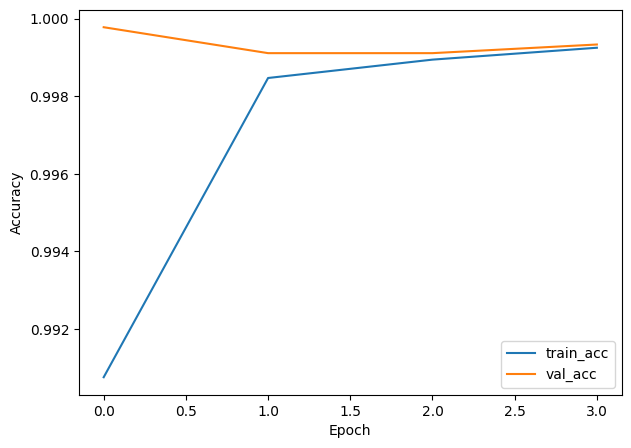
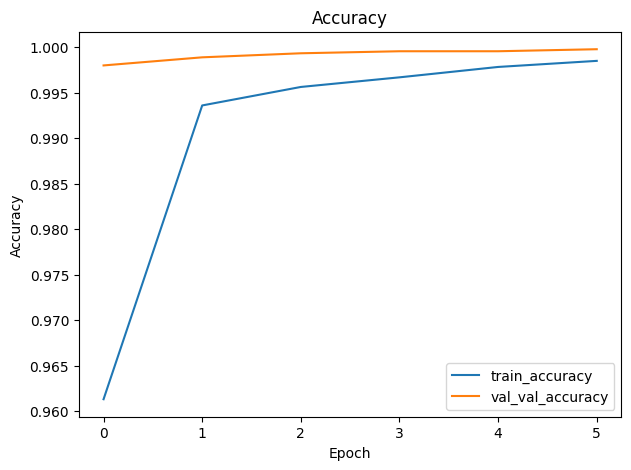
Feat: fix ui

diff --git a/train/train_v2.py b/train/train_v2.py
@@ -1,23 +1,22 @@
-
+#!/usr/bin/env python3
+# train_v2.py — improved from file1 & file2
 import os
 import sys
 import pickle
 import numpy as np
 import pandas as pd
 import matplotlib.pyplot as plt
+import random
 import tensorflow as tf
 
 from sklearn.model_selection import train_test_split
 from tensorflow.keras.preprocessing.sequence import pad_sequences
 from tensorflow.keras.callbacks import (
-    EarlyStopping,
-    ModelCheckpoint,
-    ReduceLROnPlateau,
-    CSVLogger
+    EarlyStopping, ModelCheckpoint, ReduceLROnPlateau, CSVLogger
 )
 
-# --- Paths & config ---
-PROJECT_ROOT = os.path.abspath(os.path.join(os.path.dirname(__file__), '..'))
+# -------------------- Config --------------------
+PROJECT_ROOT = os.path.abspath(os.path.join(os.path.dirname(__file__), ".."))
 DATA_CSV = os.path.join(PROJECT_ROOT, "data/processed/cleaned_dataset.csv")
 TOKENIZER_PKL = os.path.join(PROJECT_ROOT, "data/processed/tokenizer.pkl")
 EMB_NPY = os.path.join(PROJECT_ROOT, "data/processed/embedding_matrix.npy")
@@ -30,72 +29,101 @@ CSV_LOG_PATH = os.path.join(OUT_DIR, "training_log_v2.csv")
 LOSS_PLOT = os.path.join(OUT_DIR, "training_loss_v2.png")
 ACC_PLOT = os.path.join(OUT_DIR, "training_accuracy_v2.png")
 
-# giảm epo cũng được
-BATCH_SIZE = 32
-EPOCHS = 15
+BATCH_SIZE = 64        # align với file1
+EPOCHS = 8             # file1 dùng 8, giữ cho nhất quán
 RANDOM_STATE = 42
+MAX_LEN_CAP = 500      # bảo vệ trường hợp outlier
+# ------------------------------------------------
 
+# reproducibility
+tf.random.set_seed(RANDOM_STATE)
+np.random.seed(RANDOM_STATE)
+random.seed(RANDOM_STATE)
+os.environ["PYTHONHASHSEED"] = str(RANDOM_STATE)
 
+# add project to path for models import
+if PROJECT_ROOT not in sys.path:
+    sys.path.insert(0, PROJECT_ROOT)
+
+# --- Import model (try a few safe options) ---
 try:
-    if PROJECT_ROOT not in sys.path:
-        sys.path.insert(0, PROJECT_ROOT)
+    # Prefer a pre-built `model` variable exported by models/model.py
     from models.model import model
-    print("Model loaded successfully from models/model.py")
+    print("✅ Loaded `model` from models/model.py")
 except Exception as e:
-    print("ERROR importing model:", e)
-    sys.exit(1)
+    print("⚠ Could not import `model` directly (models/model.py). Error:", e)
+    print("Please ensure models/model.py exposes a compiled `model` object.")
+    raise
 
-print("\nLoading data...")
-df = pd.read_csv(DATA_CSV).dropna(subset=["clean_join","label"]).reset_index(drop=True)
+# --- Load data & tokenizer ---
+print("\n🔹 Loading data & tokenizer...")
+df = pd.read_csv(DATA_CSV).dropna(subset=["clean_join", "label"]).reset_index(drop=True)
 
 with open(TOKENIZER_PKL, "rb") as f:
     tokenizer = pickle.load(f)
 
 if os.path.exists(EMB_NPY):
-    embedding_matrix = np.load(EMB_NPY)
+    embedding_matrix = np.load(EMB_NPY).astype("float32")
+    print("Embedding matrix shape:", embedding_matrix.shape)
+else:
+    embedding_matrix = None
+    print("No embedding matrix found at", EMB_NPY)
 
-seqs = tokenizer.texts_to_sequences(df["clean_join"].tolist())
-lengths = [len(s) for s in seqs]
-p95 = int(np.percentile(lengths, 95))
-max_len = min(p95, 500)
-X_all = pad_sequences(seqs, maxlen=max_len, padding="post", truncating="post")
-
+# Normalize labels & filter valid ones
 labels_raw = df["label"].astype(str).str.strip().str.lower()
-map_dict = {"fake":0,"false":0,"0":0, "real":1,"true":1,"1":1}
-mask = labels_raw.isin(map_dict)
-X_all = X_all[mask.values]
-y_all = labels_raw[mask].map(map_dict).astype("int32").values
+map_dict = {"fake": 0, "false": 0, "0": 0, "real": 1, "true": 1, "1": 1}
+mask_valid = labels_raw.isin(map_dict.keys())
 
-X_train, X_tmp, y_train, y_tmp = train_test_split(X_all,y_all,test_size=0.2,random_state=RANDOM_STATE,stratify=y_all)
-X_val, X_test, y_val, y_test = train_test_split(X_tmp,y_tmp,test_size=0.5,random_state=RANDOM_STATE,stratify=y_tmp)
+if not mask_valid.all():
+    print(f"⚠ Dropping { (~mask_valid).sum() } rows due to invalid labels: ",
+          sorted(set(labels_raw[~mask_valid])))
 
+df_valid = df[mask_valid].reset_index(drop=True)
+y_all = labels_raw[mask_valid].map(map_dict).astype("int32").values
+
+# Tokenize -> sequences
+seqs = tokenizer.texts_to_sequences(df_valid["clean_join"].tolist())
+lengths = [len(s) for s in seqs]
+p95 = int(np.percentile(lengths, 95)) if len(lengths) > 0 else 100
+max_len = min(p95, MAX_LEN_CAP)
+print(f"Computed max_len (95th percentile capped): {max_len}")
+
+X_all = pad_sequences(seqs, maxlen=max_len, padding="post", truncating="post")
+print("X_all shape:", X_all.shape, "y_all shape:", y_all.shape)
+
+# Train/val/test split (80/10/10) with stratify
+X_train, X_tmp, y_train, y_tmp = train_test_split(
+    X_all, y_all, test_size=0.2, random_state=RANDOM_STATE, stratify=y_all
+)
+X_val, X_test, y_val, y_test = train_test_split(
+    X_tmp, y_tmp, test_size=0.5, random_state=RANDOM_STATE, stratify=y_tmp
+)
+
+print(f"Dataset sizes -> train: {len(X_train)}, val: {len(X_val)}, test: {len(X_test)}")
+
+# --- Decide monitor metric: prefer val_auc if model reports AUC, else val_loss ---
+model_metric_names = getattr(model, "metrics_names", []) or []
+model_metric_names = [str(m).lower() for m in model_metric_names]
+if any("auc" in n for n in model_metric_names):
+    monitor = "val_auc"
+    mode = "max"
+    print("Using monitor metric:", monitor)
+else:
+    # fallback to val_loss to be robust
+    monitor = "val_loss"
+    mode = "min"
+    print("AUC not present in model.metrics_names -> fallback to monitor:", monitor)
+
+# --- Callbacks (aligned with file1 best practices) ---
 callbacks = [
-    EarlyStopping(
-        monitor="val_loss",
-        mode="min",
-        patience=2,
-        restore_best_weights=True,
-        verbose=1
-    ),
-    ModelCheckpoint(
-        BEST_MODEL_PATH,
-        monitor="val_loss",
-        mode="min",
-        save_best_only=True,
-        verbose=1
-    ),
-    ReduceLROnPlateau(
-        monitor="val_loss",
-        factor=0.5,
-        patience=1,
-        min_lr=1e-6,
-        verbose=1
-    ),
+    EarlyStopping(monitor=monitor, mode=mode, patience=2, restore_best_weights=True, verbose=1),
+    ModelCheckpoint(BEST_MODEL_PATH, monitor=monitor, mode=mode, save_best_only=True, verbose=1),
+    ReduceLROnPlateau(monitor="val_loss", factor=0.5, patience=1, min_lr=1e-6, verbose=1),
     CSVLogger(CSV_LOG_PATH, append=False)
 ]
 
-# training
-print("\nStart training...")
+# --- Training ---
+print("\n🚀 Start training...")
 history = model.fit(
     X_train, y_train,
     validation_data=(X_val, y_val),
@@ -105,26 +133,37 @@ history = model.fit(
     verbose=1
 )
 
-print("\nEvaluate...")
+# --- Evaluate ---
+print("\n🧩 Evaluate on test set...")
 test_results = model.evaluate(X_test, y_test, batch_size=BATCH_SIZE, verbose=1)
-for name,val in zip(model.metrics_names,test_results):
+for name, val in zip(model.metrics_names, test_results):
     print(f"- {name}: {val:.4f}")
 
-# plot loss
-plt.figure(figsize=(7,5))
-plt.plot(history.history["loss"],label="train_loss")
-plt.plot(history.history["val_loss"],label="val_loss")
-plt.legend(); plt.xlabel("Epoch"); plt.ylabel("Loss")
-plt.savefig(LOSS_PLOT,bbox_inches="tight"); plt.show(); plt.close()
+# --- Plot helper (robust to missing keys) ---
+def plot_metric(history, metric_key, val_key, title, save_path):
+    plt.figure(figsize=(7, 5))
+    if metric_key in history.history:
+        plt.plot(history.history[metric_key], label=f"train_{metric_key}")
+    if val_key in history.history:
+        plt.plot(history.history[val_key], label=f"val_{val_key}")
+    plt.legend()
+    plt.xlabel("Epoch")
+    plt.ylabel(title)
+    plt.title(title)
+    plt.savefig(save_path, bbox_inches="tight")
+    plt.close()
 
-# plot accuracy
+# Loss
+plot_metric(history, "loss", "val_loss", "Loss", LOSS_PLOT)
+
+# Accuracy (handle acc/accuracy)
 acc_key = "accuracy" if "accuracy" in history.history else ("acc" if "acc" in history.history else None)
 val_acc_key = "val_accuracy" if "val_accuracy" in history.history else ("val_acc" if "val_acc" in history.history else None)
 if acc_key:
-    plt.figure(figsize=(7,5))
-    plt.plot(history.history[acc_key],label="train_acc")
-    if val_acc_key: plt.plot(history.history[val_acc_key],label="val_acc")
-    plt.legend(); plt.xlabel("Epoch"); plt.ylabel("Accuracy")
-    plt.savefig(ACC_PLOT,bbox_inches="tight"); plt.show(); plt.close()
+    plot_metric(history, acc_key, val_acc_key, "Accuracy", ACC_PLOT)
+else:
+    print("No accuracy key in history.history - skipping accuracy plot.")
 
-print("\nDONE. Best model saved at:", BEST_MODEL_PATH)
+print(f"\n✅ DONE. Best model saved at: {BEST_MODEL_PATH}")
+print(f"📈 Training log saved at: {CSV_LOG_PATH}")
+print(f"🖼 Plots saved at: {LOSS_PLOT} / {ACC_PLOT if acc_key else '(no acc plot)'}")

diff --git a/models/model.py b/models/model.py
@@ -1,4 +1,3 @@
-# File: models/model.py
 import numpy as np
 import pandas as pd
 import pickle
@@ -7,25 +6,24 @@ import os
 
 from sklearn.preprocessing import LabelEncoder
 
-# === CẬP NHẬT IMPORT ===
-from tensorflow.keras.models import Model
-# Thêm Conv1D, GlobalMaxPooling1D, Concatenate
-from tensorflow.keras.layers import Input, Embedding, Dense, Dropout, Conv1D, GlobalMaxPooling1D, Concatenate
-from tensorflow.keras.preprocessing.sequence import pad_sequences
-# (Không cần Bidirectional, LSTM nữa)
-# === HẾT CẬP NHẬT IMPORT ===
 
-# --- Configuration of file ---
+from tensorflow.keras.models import Model
+from tensorflow.keras.layers import Input, Embedding, Bidirectional, LSTM, Dense, Dropout
+from tensorflow.keras.preprocessing.sequence import pad_sequences
+from tensorflow.keras.callbacks import ModelCheckpoint, EarlyStopping
+
+# Configuration of file
 model_dir = os.path.dirname(__file__)
+# Lấy đường dẫn thư mục gốc của dự án (đi lên 1 cấp từ model_dir)
 project_root = os.path.abspath(os.path.join(model_dir, '..'))
 
+# Tạo đường dẫn tuyệt đối đến các file dữ liệu
 OUTPUT_CLEAN_CSV = os.path.join(project_root, "data/processed/cleaned_dataset.csv")
 OUTPUT_TOKENIZER = os.path.join(project_root, "data/processed/tokenizer.pkl")
 OUTPUT_EMB_MATRIX = os.path.join(project_root, "data/processed/embedding_matrix.npy")
-# --- Hết phần đường dẫn ---
+OUTPUT_MODEL_H5 = "best_model.h5"
+# Upload clean data
 
-# --- Tải dữ liệu (giữ nguyên) ---
-print("Loading data inside model.py...")
 df = pd.read_csv(OUTPUT_CLEAN_CSV)
 df = df.dropna(subset=['clean_join','label']).reset_index(drop=True)
 
@@ -39,18 +37,13 @@ print(f"Shape of Embedding matrix: {embedding_matrix.shape}")
 vocal_size = embedding_matrix.shape[0]
 embed_dim = embedding_matrix.shape[1]
 seqs = tokenizer.texts_to_sequences(df['clean_join'])
-# max_len = max(len(s) for s in seqs) # (Bị ghi đè bên dưới)
+max_len = max(len(s) for s in seqs)
 
 # Define the suitable length string
 p95 = int(np.percentile([len(s) for s in seqs], 95))
 max_len = min(p95, 500)
-# --- Hết phần tải dữ liệu ---
 
-
-# === THAY THẾ KIẾN TRÚC MÔ HÌNH ===
-print("Building TextCNN model...")
-
-# Build-in model TextCNN
+# Buil-in model BI-LSTM
 inputs = Input(shape=(max_len,),dtype='int32',name="Input_Layer")
 
 # Embedding layer using GloVe
@@ -59,27 +52,27 @@ embedding_layer = Embedding(
     output_dim=embed_dim,
     weights=[embedding_matrix],
     input_length=max_len,
-    trainable=False, # Bắt đầu với False là tốt nhất
+    trainable=False,
     name="GloVe_Embedding"
 )(inputs)
 
-# CNN với nhiều kernel size (Theo code bạn cung cấp)
-conv_blocks = []
-for kernel_size in [3, 4, 5]: # Phát hiện cụm 3, 4, 5 từ
-    conv = Conv1D(128, kernel_size, activation='relu', name=f"Conv1D_{kernel_size}")(embedding_layer)
-    pool = GlobalMaxPooling1D(name=f"MaxPool_{kernel_size}")(conv)
-    conv_blocks.append(pool)
+# Bi-LSTM layer
+x = Bidirectional(LSTM(64,return_sequences=True),name="BiLSTM_1")(embedding_layer)
+x = Bidirectional(LSTM(32),name="BiLSTM_2")(x)
 
-x = Concatenate(name="Concat_Layer")(conv_blocks) # Kết hợp đặc trưng
-x = Dropout(0.5, name="Dropout_1")(x)
-x = Dense(64, activation='relu', name="Dense_1")(x) # Lớp Dense ẩn
-x = Dropout(0.3, name="Dropout_2")(x) # Thêm Dropout (tùy chọn)
-outputs = Dense(1, activation='sigmoid', name="Output_Layer")(x) # Lớp Output
+# Dropout for avoiding overfitting
+x = Dropout(0.5,name="Dropout_Layer")(x)
 
-model = Model(inputs, outputs, name="FakeNews_CNN") # Đổi tên mô hình
-# === HẾT PHẦN THAY THẾ ===
+# Dense layer and activate ReLU func
+x = Dense(16,activation="relu",name="Hidden_Dense")(x)
 
-# Compile (giữ nguyên)
+# Output layer with sigmoid
+outputs = Dense(1,activation="sigmoid",name="Output_Layer")(x)
+
+# Build model
+model = Model(inputs,outputs,name="FakeNews_BiLSTM")
+
+# Compile
 model.compile(
     optimizer=tf.keras.optimizers.Adam(learning_rate=1e-3),
     loss='binary_crossentropy',

diff --git a/app.py b/app.py
@@ -50,7 +50,6 @@ def predict_news(text):
     print(f"Sequence: {seq[0][:50]}")  # In 50 số đầu
     print(f"Sequence length: {len(seq[0])}")
     
-    seq = tokenizer.texts_to_sequences([cleaned])
     padded = pad_sequences(seq, maxlen=MAX_LEN, padding="post", truncating="post")
     pred = model.predict(padded, verbose=0)[0][0]
     
@@ -59,22 +58,41 @@ def predict_news(text):
     
     label = "Real News" if pred >= 0.45 else "Fake News"
     confidence = pred if pred >= 0.5 else 1 - pred
-    return label, confidence, pred  # Thêm pred vào return
+    return label, confidence, pred  
 
-# ======================
 # Streamlit UI
-# ======================
 st.title("📰 Fake News Detection Application")
 st.markdown("Enter a piece of news text below to analyze whether it is real or fake.")
 st.markdown("---")
 
-user_input = st.text_area("Input text:", height=200, placeholder="Paste your news article here...")
 
-if st.button("Analyze"):
-    if user_input.strip() == "":
+user_input = st.text_area(
+    "Input text:",
+    height=200,
+    placeholder="Paste your news article here...",
+    key="user_input"
+)
+
+# Clear callback 
+def clear_input():
+    st.session_state["user_input"] = ""
+
+
+col_a, col_b = st.columns([1, 1])
+
+with col_a:
+    analyze_clicked = st.button("Analyze", use_container_width=True)
+
+with col_b:
+    clear_clicked = st.button("Clear", on_click=clear_input, use_container_width=True)
+
+# Analyze logic
+if analyze_clicked:
+    current_text = st.session_state.get("user_input", "")
+    if current_text.strip() == "":
         st.warning("Please enter some text before analyzing.")
     else:
-        label, confidence, raw_pred = predict_news(user_input)
+        label, confidence, raw_pred = predict_news(current_text)
 
         st.markdown("---")
         st.subheader("Prediction Result")
